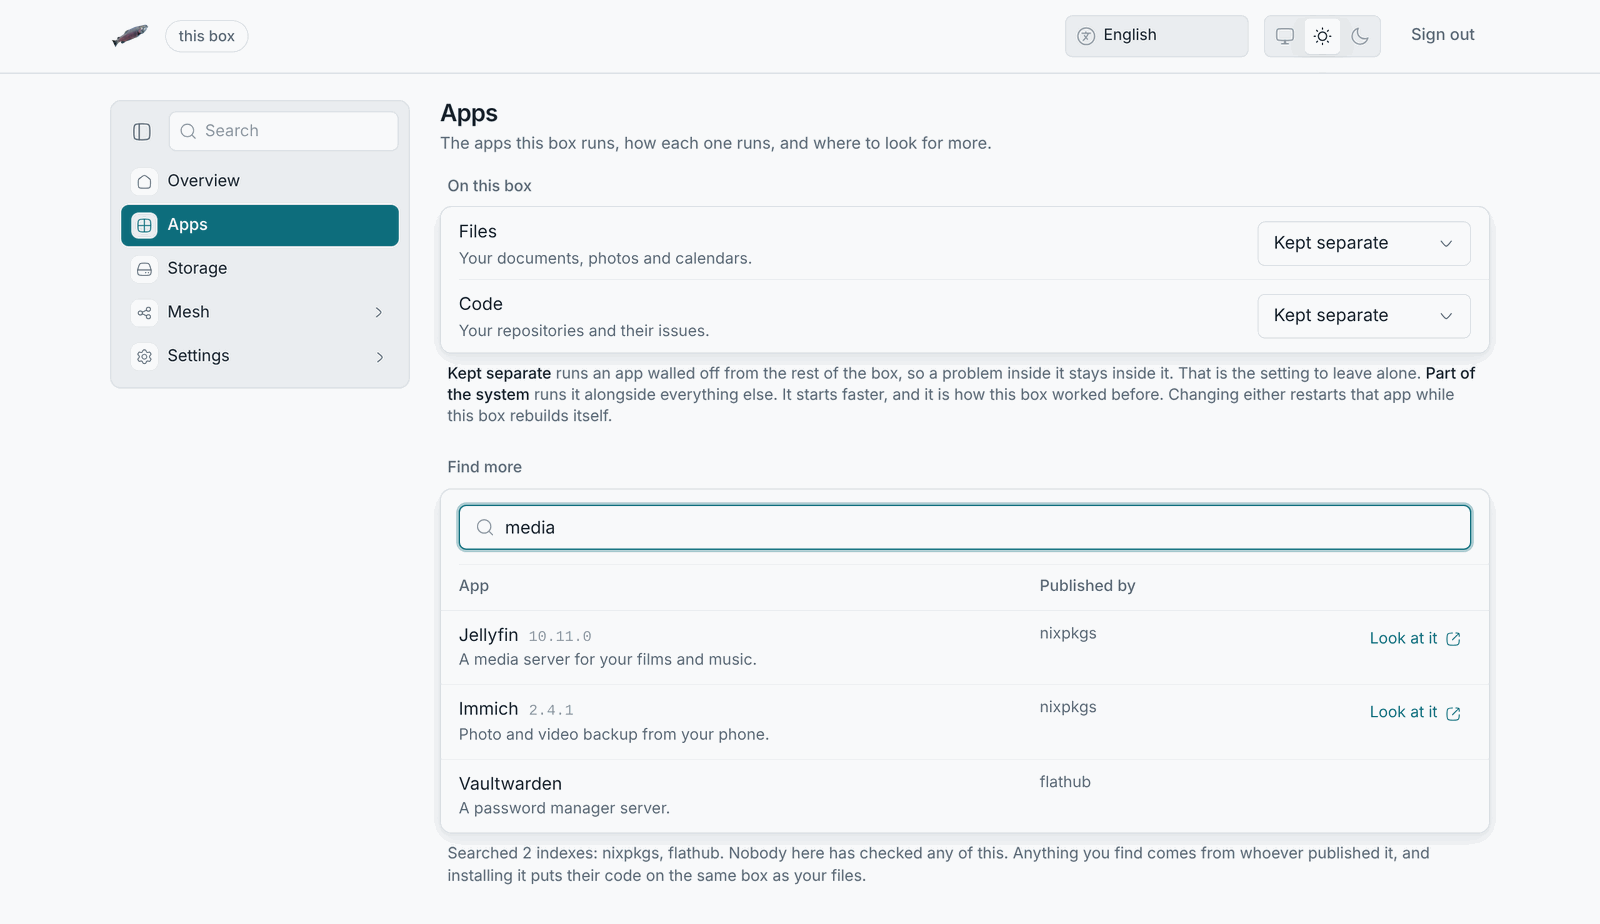
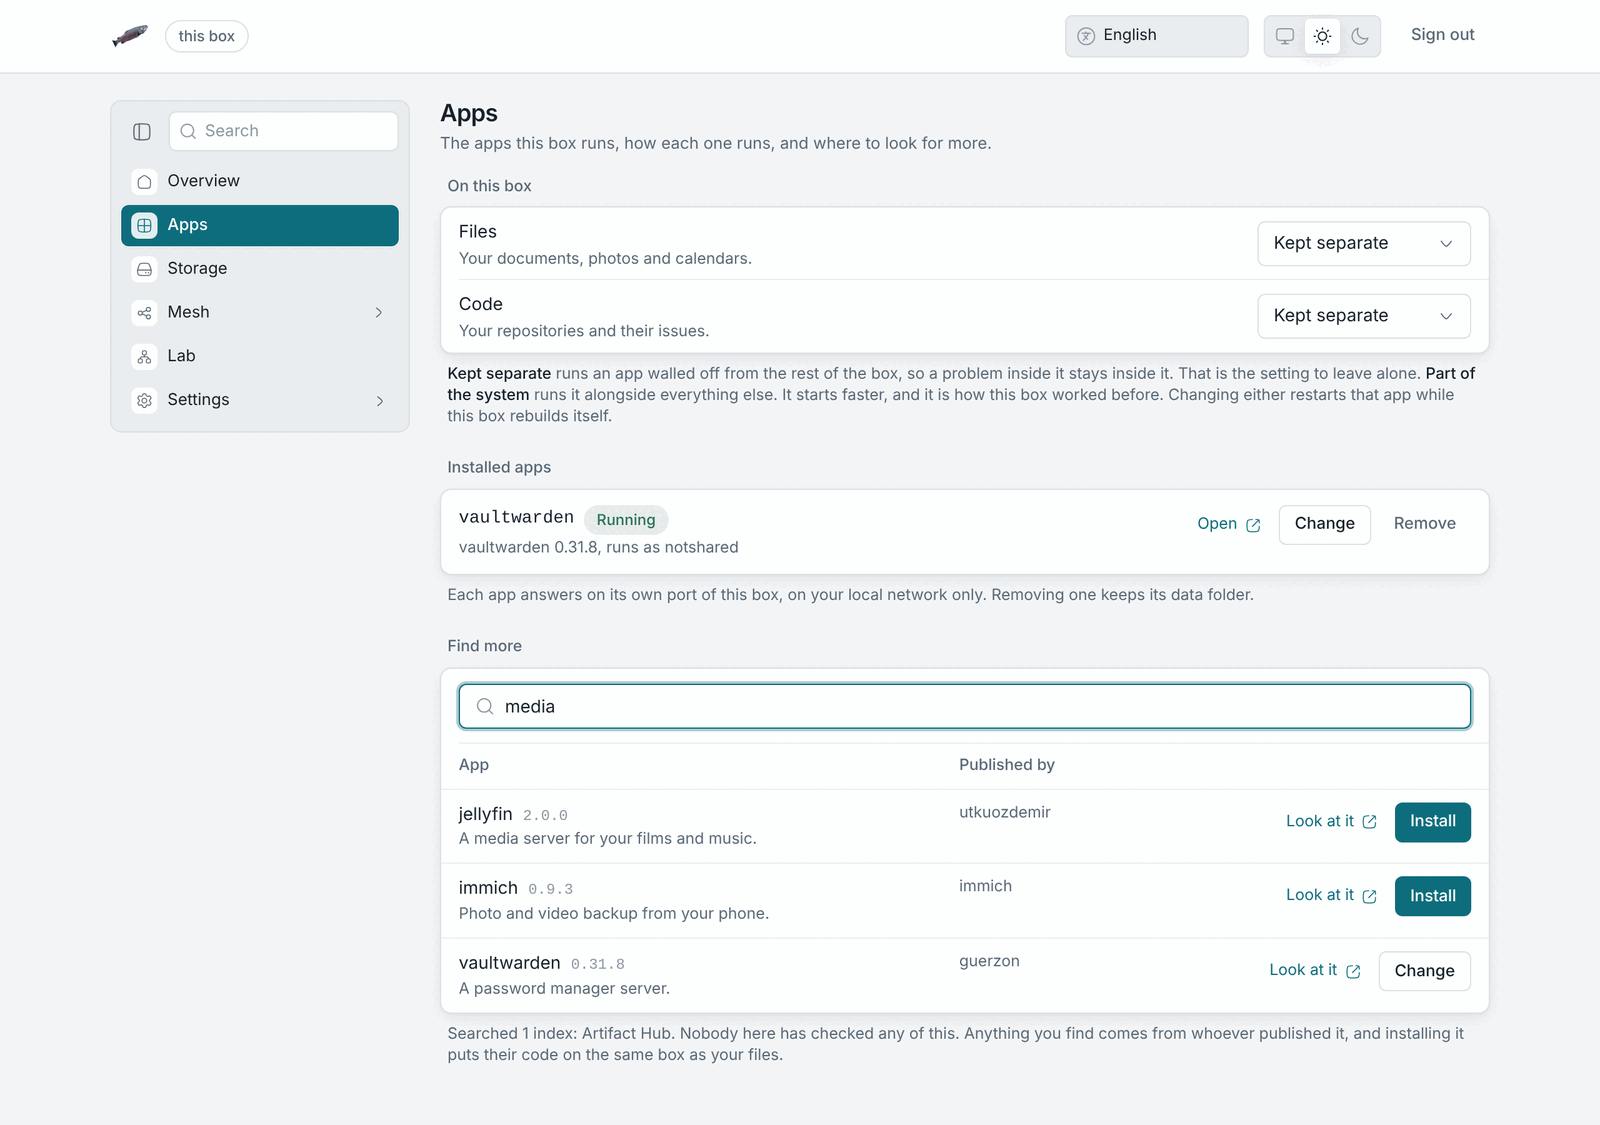
Document installing apps, keep the dialog's buttons in view
The handbook's Apps page says what the search is (Artifact Hub), how the
install dialog works and what the box changes in a chart. Its pictures
show an installed app and the dialog. The job script no longer opens a
quote inside a parameter expansion, which shellcheck caught.

diff --git a/admin-ui/app/src/screens/settings/pane-apps.tsx b/admin-ui/app/src/screens/settings/pane-apps.tsx
@@ -379,38 +379,38 @@ function ResultRow({ app, install }: { app: CatalogueApp; install: Installer | n
       <TableCell className="align-top text-[12.5px] text-muted">{app.source}</TableCell>
       <TableCell className="text-right align-top">
         <div className="flex flex-wrap items-center justify-end gap-1.5">
-        {app.homepage !== null && (
-          <a
-            href={app.homepage}
-            target="_blank"
-            rel="noreferrer noopener external"
-            className={cn(
-              "inline-flex shrink-0 items-center gap-1.5 rounded-control px-2 py-1",
-              "text-[12.5px] text-accent transition-colors duration-150 hover:bg-accent-wash",
-            )}
-          >
-            {t("panes.apps.lookAt")}
-            <HugeiconsIcon
-              icon={LinkSquare02Icon}
-              size={13}
-              strokeWidth={1.5}
-              color="currentColor"
-              aria-hidden="true"
-            />
-          </a>
-        )}
-        {/* Only a row the box can fetch an app from, on a box that can run
-            one. A second install of the same app is a change to the first. */}
-        {chart !== null && install !== null && (
-          <Button
-            size="sm"
-            variant={record === undefined ? "primary" : "secondary"}
-            aria-label={record === undefined ? t("install.buttonLabel", { name: app.name }) : undefined}
-            onClick={() => install.start(app, chart)}
-          >
-            {record === undefined ? t("install.button") : t("install.change")}
-          </Button>
-        )}
+          {app.homepage !== null && (
+            <a
+              href={app.homepage}
+              target="_blank"
+              rel="noreferrer noopener external"
+              className={cn(
+                "inline-flex shrink-0 items-center gap-1.5 rounded-control px-2 py-1",
+                "text-[12.5px] text-accent transition-colors duration-150 hover:bg-accent-wash",
+              )}
+            >
+              {t("panes.apps.lookAt")}
+              <HugeiconsIcon
+                icon={LinkSquare02Icon}
+                size={13}
+                strokeWidth={1.5}
+                color="currentColor"
+                aria-hidden="true"
+              />
+            </a>
+          )}
+          {/* Only a row the box can fetch an app from, on a box that can run
+              one. A second install of the same app is a change to the first. */}
+          {chart !== null && install !== null && (
+            <Button
+              size="sm"
+              variant={record === undefined ? "primary" : "secondary"}
+              aria-label={record === undefined ? t("install.buttonLabel", { name: app.name }) : undefined}
+              onClick={() => install.start(app, chart)}
+            >
+              {record === undefined ? t("install.button") : t("install.change")}
+            </Button>
+          )}
         </div>
       </TableCell>
     </TableRow>

diff --git a/admin-ui/app/src/i18n/install.ts b/admin-ui/app/src/i18n/install.ts
@@ -14,9 +14,9 @@ export default defineMessages({
   },
   "install.installedBadge": { en: "Installed", sk: "Nainštalované", de: "Installiert" },
   "install.noCluster": {
-    en: "Apps from the search install only while LosOS cloud or LosOS Git runs kept apart from the system (set above).",
-    sk: "Aplikácie z vyhľadávania sa dajú inštalovať, len keď LosOS cloud alebo LosOS Git beží oddelene od systému (nastavenie vyššie).",
-    de: "Apps aus der Suche lassen sich nur installieren, solange LosOS cloud oder LosOS Git getrennt vom System läuft (siehe oben).",
+    en: "Apps from the search install only while Files or Code is set to Kept separate above.",
+    sk: "Aplikácie z vyhľadávania sa dajú inštalovať, len keď sú Súbory alebo Kód vyššie nastavené na Oddelene.",
+    de: "Apps aus der Suche lassen sich nur installieren, solange Dateien oder Code oben auf Abgeschottet steht.",
   },
 
   // ── The dialog: properties and user ─────────────────────────────────────

diff --git a/admin-ui/app/src/screens/settings/install-dialog.tsx b/admin-ui/app/src/screens/settings/install-dialog.tsx
@@ -183,6 +183,9 @@ export function InstallDialog({ target, sharedAvailable, onOpenChange, onInstall
       labelledBy={titleId}
       describedBy={bodyId}
       dialogClassName="w-[min(40rem,calc(100vw-2rem))]"
+      // A chart can have hundreds of properties: the form scrolls between a
+      // header and buttons that stay in view.
+      className="flex flex-col"
     >
       {target !== null && step === "form" && (
         <>
@@ -192,7 +195,7 @@ export function InstallDialog({ target, sharedAvailable, onOpenChange, onInstall
               {t("install.byline", { version: target.source.version, publisher: target.publisher })}
             </DialogDescription>
           </DialogHeader>
-          <DialogBody className="flex flex-col gap-5">
+          <DialogBody className="flex min-h-0 flex-col gap-5 overflow-y-auto">
             {loaded.kind === "loading" && (
               <div className="flex items-center gap-2.5 py-6 text-[13px] text-muted">
                 <Spinner size={16} label={t("install.fetching")} />

diff --git a/handbook/docs/manual/apps.md b/handbook/docs/manual/apps.md
@@ -64,11 +64,63 @@ the **Advanced** pane shows both federation switches as unavailable.
 
 For each app the pane shows whether it is on, which
 [mode](../types/app-modes) it runs in, and a link. Below that, **Find more**
-searches LosOS cloud's app catalogue. The box fetches the catalogue, so the
-search needs the internet. To install an app you like, sign in to LosOS cloud
-with the owner account and install it there.
+searches [Artifact Hub](https://artifacthub.io) for Helm charts. The box
+fetches the results, so the search needs the internet. Every row names who
+published the chart. Nobody on the LosOS side has checked any of them.
 
-![The Apps pane with Find more: a search of LosOS cloud's app catalogue and the results with where each comes from.](../img/apps-find-more.png)
+![The Apps pane with one installed app above Find more, and search results from Artifact Hub, each with who published it and an Install or Change button.](../img/apps-find-more.png)
+
+## Installing an app from the search
+
+A row the box can fetch has an **Install** button. It opens a dialog in
+two steps.
+
+The first step reads the chart and shows three things.
+
+- **Name on this box.** It starts as the chart's name. It also names the
+  app's folder, so it cannot change later.
+- **Run it as.** `notshared` or `shared`, the box's two users. A
+  `notshared` app keeps its data on the owner's side of the disk, next to
+  your files. A `shared` app keeps it on the side the box lends to the
+  mesh. The dialog greys `shared` out while the box does not share its disk.
+- **Properties.** Every setting in the chart's values file, with its
+  default, folded by section. When the chart ships a schema, each setting
+  also gets its description and its choices. **As text** shows the whole
+  values file to edit instead. A property you change on the form wins over
+  the same line in the text.
+
+![The install dialog: the name, the choice between notshared and shared with shared greyed out, and the chart's properties folded by section.](../img/apps-install.png)
+
+The second step asks once more. It says that the box will download and run
+code the publisher wrote, as the user you chose, with no admin rights. The
+box gets nothing until you press **Install** there.
+
+The box then installs the chart into its own cluster and changes it to run
+the way LosOS cloud and LosOS Git do.
+
+- Every part of the app runs as the chosen user, never as root, with no
+  extra privileges and no access to the cluster.
+- The storage the chart asks for becomes folders under
+  `/home/<user>/data/apps/<name>`.
+- The app gets one port of its own from `losos.apps.ports`, 30000 to 30099
+  by default, and only your local network can reach it.
+
+The box refuses a chart that needs more than that and says why. Typical
+reasons are admin rights, a port below 1024, a port another app already
+uses, or a folder of the system. An app built from several services that
+call each other by name may not start, because the box's own cluster has
+no internal network.
+
+**Installed apps**, above the search, lists each app with its state.
+**Open** goes to the app's port on the address you are using. **Change**
+opens the same dialog on the app's current properties. **Remove** asks
+first, then takes the app off the box. Its data folder stays, so an install
+under the same name finds the data again.
+
+The search offers installs only while Files or Code is set to **Kept
+separate**, which is [workload mode](../types/app-modes). The box's own
+cluster runs only then. To turn installing off, set `losos.apps.enable` to
+false on the **Advanced** pane.
 
 ## Trusted addresses
 

diff --git a/handbook/docs/manual/admin-pages.md b/handbook/docs/manual/admin-pages.md
@@ -20,7 +20,7 @@ icons. On a phone it opens as a sheet.
 | Section      | What is there                                                                                              |
 | ------------ | ---------------------------------------------------------------------------------------------------------- |
 | **Overview** | Whether the box is answering and for how long, the storage card, the app tiles and your board of widgets.  |
-| **Apps**     | The apps on this box with their mode, and a search of LosOS cloud's app catalogue.                         |
+| **Apps**     | The apps on this box with their mode, a search of Artifact Hub, and the apps installed from it.            |
 | **Storage**  | How full the disk is, what is holding the room, and the reserve to claim.                                   |
 | **Mesh**     | Joining other boxes, the hours this one lends its spare time, and **Market** with disk sharing, greyed out. |
 | **Settings** | Network, Look, Hardware, Security, Advanced, History, About and Reset, each a pane. A search box filters the panes.             |

diff --git a/CLAUDE.md b/CLAUDE.md
@@ -90,6 +90,12 @@ and is never served or built by nix.
   Nextcloud and Forgejo run as hostNetwork pods in the box's own k3s server;
   `services.rke2` (agent) joins the edge's mesh. Nginx is the only public
   listener: `<host>.local/nextcloud`, `/forgejo`, admin SPA on `/`.
+- `apps.nix` + `backend/src/apps.rs`: Helm charts from the Apps pane's
+  search, installed into the box's own k3s by `losos-app-<name>` transient
+  units. The `losos-shape` post-renderer (`losos-app-shape`) puts every pod
+  on the host network as `notshared` or `shared` without root, turns claims
+  into folders in that user's data domain and refuses a chart that needs
+  more; nginx forwards a port of `losos.apps.ports` to it, LAN only.
 - `admin-ui/themes/`: the SPA's `tokens.css` is shipped byte for byte as
   `losos-tokens.css` into the Nextcloud theme folder and Forgejo's custom
   CSS, so one colour change moves all three. `default.nix` is the data every

diff --git a/handbook/docs/types/app-modes.md b/handbook/docs/types/app-modes.md
@@ -41,7 +41,7 @@ over midnight would take your own files offline.
 
 ## Where the apps are
 
-![The Apps pane: LosOS cloud and LosOS Git, each with its mode and whether it is on, and Find more below.](../img/apps.png)
+![The Apps pane: LosOS cloud and LosOS Git, each with its mode, an installed app, and Find more below.](../img/apps.png)
 
 | App          | Address             | Note                                                                                      |
 | ------------ | ------------------- | ----------------------------------------------------------------------------------------- |
